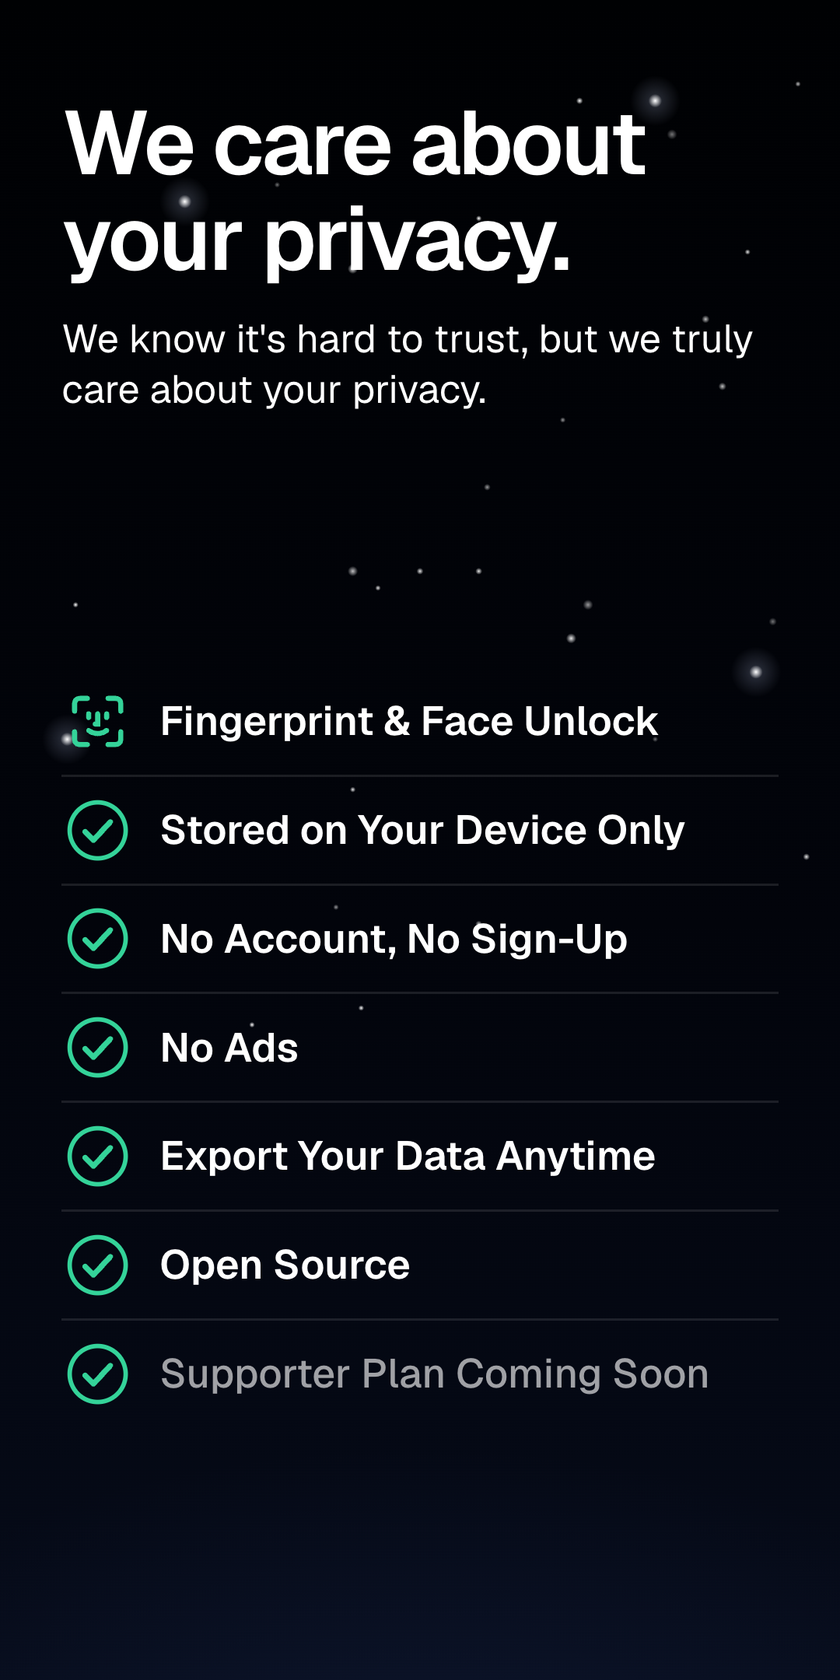
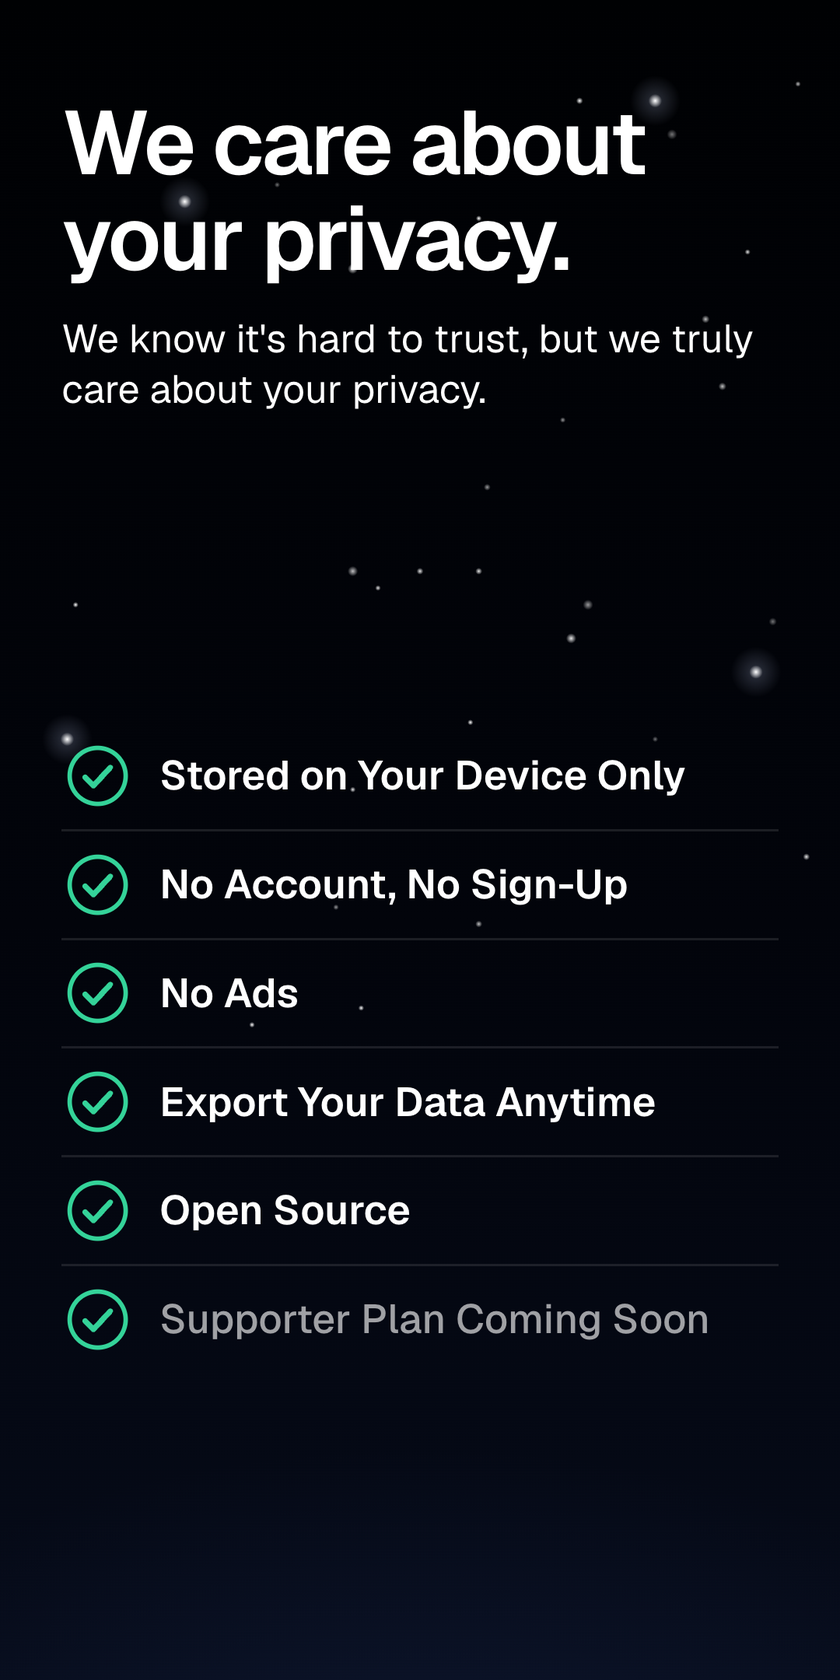
docs(store-screenshots): show only features in the store version
Drop Timeline, People and the Face ID row: these are behind flags and
not in store version 1.68.0. Add Year in Pixels and color themes
(PuOr light, BrBG dark), both in 1.68.0.

Changed region(s): [[0.1833, 0.4032, 0.8556, 0.8375], [0.0611, 0.4032, 0.1528, 0.8375]]

diff --git a/docs/store-screenshots/index.html b/docs/store-screenshots/index.html
@@ -156,19 +156,19 @@ radial-gradient(1.4px 1.4px at 18% 10%,#fff,transparent),radial-gradient(1px 1px
  <h4>Mood in<br>Pixels</h4><div class="sub">Your days turn into colors.</div>
  <div class="phA" style="top:186px;left:24%;transform:translateX(-50%) rotate(-5deg) scale(.85);transform-origin:50% 0;"><div class="bz"><div class="sc" data-app="mood" data-args=''></div></div></div>
  <div class="phA" style="top:150px;left:76%;transform:translateX(-50%) rotate(5deg) scale(.85);transform-origin:50% 0;z-index:2;"><div class="bz"><div class="sc" data-app="calendar" data-args=''></div></div></div></div><div class="lab"><b>2 · Mood.</b></div></div><div class="slot"><div class="scr ">
- <h4>Relive your<br>best days</h4><div class="sub">Every moment, photo and feeling.</div>
- <div class="phA" style="top:156px;transform:translateX(-50%) scale(var(--fit));transform-origin:50% 0;"><div class="bz"><div class="sc" data-app="timeline2" data-args=''></div></div></div></div><div class="lab"><b>3 · Timeline.</b></div></div><div class="slot"><div class="scr ">
  <h4>Name what<br>you feel.</h4><div class="sub">161 emotions, each explained.</div>
  <div class="phA" style="top:156px;transform:translateX(-50%) scale(var(--fit));transform-origin:50% 0;"><div class="bz"><div class="sc" data-app="emotions" data-args=''></div></div></div>
- <div class="zoom" style="left:22px;right:22px;top:500px"><span class="zc on" data-emo="calm"></span><span class="zc on" data-emo="hopeful"></span><span class="zc" data-emo="grateful"></span><span class="zc" data-emo="anxious"></span></div></div><div class="lab"><b>4 · Emotions.</b></div></div><div class="slot"><div class="scr ">
+ <div class="zoom" style="left:22px;right:22px;top:500px"><span class="zc on" data-emo="calm"></span><span class="zc on" data-emo="hopeful"></span><span class="zc" data-emo="grateful"></span><span class="zc" data-emo="anxious"></span></div></div><div class="lab"><b>3 · Emotions.</b></div></div><div class="slot"><div class="scr ">
  <h4>Tag what<br>matters</h4><div class="sub">Track what fills your days.</div>
  <div class="phA" style="top:156px;transform:translateX(-50%) scale(var(--fit));transform-origin:50% 0;"><div class="bz"><div class="sc" data-app="tags" data-args=''></div></div></div>
- <div class="zoom" style="left:22px;right:22px;top:500px"><span class="zc on"><i style="background:#22c55e"></i>Sport</span><span class="zc on"><i style="background:#f59e0b"></i>Hyperfocus</span><span class="zc on"><i style="background:#8b5cf6"></i>Took meds</span><span class="zc on"><i style="background:#3b82f6"></i>Meetings</span></div></div><div class="lab"><b>5 · Tags.</b></div></div><div class="slot"><div class="scr ">
- <h4>Who makes<br>your day?</h4><div class="sub">Add the people in your life.</div>
- <div class="phA" style="top:156px;transform:translateX(-50%) scale(var(--fit));transform-origin:50% 0;"><div class="bz"><div class="sc" data-app="people" data-args=''></div></div></div>
- <div class="zoom faces" style="left:22px;right:22px;top:430px"><span class="zf on"><img src="photos/p-ada.jpg" alt=""><b>Ada</b></span><span class="zf on"><img src="photos/p-jonas.jpg" alt=""><b>Jonas</b></span><span class="zf"><img src="photos/p-priya.jpg" alt=""><b>Priya</b></span></div></div><div class="lab"><b>6 · People.</b></div></div><div class="slot"><div class="scr dark">
+ <div class="zoom" style="left:22px;right:22px;top:500px"><span class="zc on"><i style="background:#22c55e"></i>Sport</span><span class="zc on"><i style="background:#f59e0b"></i>Hyperfocus</span><span class="zc on"><i style="background:#8b5cf6"></i>Took meds</span><span class="zc on"><i style="background:#3b82f6"></i>Meetings</span></div></div><div class="lab"><b>4 · Tags.</b></div></div><div class="slot"><div class="scr ">
+ <h4>Your year<br>in pixels</h4><div class="sub">See every day of the year at a glance.</div>
+ <div class="phA" style="top:156px;transform:translateX(-50%) scale(var(--fit));transform-origin:50% 0;"><div class="bz"><div class="sc" data-app="year" data-args=''></div></div></div></div><div class="lab"><b>5 · Year.</b></div></div><div class="slot"><div class="scr ">
+ <h4>Make it<br>your own</h4><div class="sub">Color scales in light and dark mode.</div>
+ <div class="phA" style="top:186px;left:24%;transform:translateX(-50%) rotate(-5deg) scale(.85);transform-origin:50% 0;"><div class="bz"><div class="sc" data-app="calendar" data-args='puor'></div></div></div>
+ <div class="phA" style="top:150px;left:76%;transform:translateX(-50%) rotate(5deg) scale(.85);transform-origin:50% 0;z-index:2;"><div class="bz"><div class="sc" data-app="calendar" data-args='brbg,dark'></div></div></div></div><div class="lab"><b>6 · Themes.</b></div></div><div class="slot"><div class="scr dark">
  <h4 style="align-self:flex-start;text-align:left">We care about<br>your privacy.</h4><div class="sub" style="align-self:flex-start;text-align:left;color:#fff">We know it's hard to trust, but we truly care about your privacy.</div>
- <div class="plist" style="margin-top:auto;margin-bottom:auto"><div><svg width="22" height="22" viewBox="0 0 24 24" fill="none" stroke="#34d399" stroke-width="2" stroke-linecap="round"><path d="M3 8V5a2 2 0 0 1 2-2h3M16 3h3a2 2 0 0 1 2 2v3M21 16v3a2 2 0 0 1-2 2h-3M8 21H5a2 2 0 0 1-2-2v-3"/><path d="M8.5 9v1.5M15.5 9v1.5M12 9v4h-1"/><path d="M8.5 15.5c1.8 1.6 5.2 1.6 7 0"/></svg>Face ID Lock</div><div><svg width="22" height="22" viewBox="0 0 22 22"><circle cx="11" cy="11" r="10" fill="none" stroke="#34d399" stroke-width="1.6"/><path d="M6.5 11.5l3 3L15.5 8" stroke="#34d399" stroke-width="2" fill="none" stroke-linecap="round" stroke-linejoin="round"/></svg>Stored on Your Device Only</div><div><svg width="22" height="22" viewBox="0 0 22 22"><circle cx="11" cy="11" r="10" fill="none" stroke="#34d399" stroke-width="1.6"/><path d="M6.5 11.5l3 3L15.5 8" stroke="#34d399" stroke-width="2" fill="none" stroke-linecap="round" stroke-linejoin="round"/></svg>No Account, No Sign-Up</div><div><svg width="22" height="22" viewBox="0 0 22 22"><circle cx="11" cy="11" r="10" fill="none" stroke="#34d399" stroke-width="1.6"/><path d="M6.5 11.5l3 3L15.5 8" stroke="#34d399" stroke-width="2" fill="none" stroke-linecap="round" stroke-linejoin="round"/></svg>No Ads</div><div><svg width="22" height="22" viewBox="0 0 22 22"><circle cx="11" cy="11" r="10" fill="none" stroke="#34d399" stroke-width="1.6"/><path d="M6.5 11.5l3 3L15.5 8" stroke="#34d399" stroke-width="2" fill="none" stroke-linecap="round" stroke-linejoin="round"/></svg>Export Your Data Anytime</div><div><svg width="22" height="22" viewBox="0 0 22 22"><circle cx="11" cy="11" r="10" fill="none" stroke="#34d399" stroke-width="1.6"/><path d="M6.5 11.5l3 3L15.5 8" stroke="#34d399" stroke-width="2" fill="none" stroke-linecap="round" stroke-linejoin="round"/></svg>Open Source</div><div class="soon"><svg width="22" height="22" viewBox="0 0 22 22"><circle cx="11" cy="11" r="10" fill="none" stroke="#34d399" stroke-width="1.6"/><path d="M6.5 11.5l3 3L15.5 8" stroke="#34d399" stroke-width="2" fill="none" stroke-linecap="round" stroke-linejoin="round"/></svg>Supporter Plan Coming Soon</div></div></div><div class="lab"><b>7 · Privacy.</b></div></div></div>
+ <div class="plist" style="margin-top:auto;margin-bottom:auto"><div><svg width="22" height="22" viewBox="0 0 22 22"><circle cx="11" cy="11" r="10" fill="none" stroke="#34d399" stroke-width="1.6"/><path d="M6.5 11.5l3 3L15.5 8" stroke="#34d399" stroke-width="2" fill="none" stroke-linecap="round" stroke-linejoin="round"/></svg>Stored on Your Device Only</div><div><svg width="22" height="22" viewBox="0 0 22 22"><circle cx="11" cy="11" r="10" fill="none" stroke="#34d399" stroke-width="1.6"/><path d="M6.5 11.5l3 3L15.5 8" stroke="#34d399" stroke-width="2" fill="none" stroke-linecap="round" stroke-linejoin="round"/></svg>No Account, No Sign-Up</div><div><svg width="22" height="22" viewBox="0 0 22 22"><circle cx="11" cy="11" r="10" fill="none" stroke="#34d399" stroke-width="1.6"/><path d="M6.5 11.5l3 3L15.5 8" stroke="#34d399" stroke-width="2" fill="none" stroke-linecap="round" stroke-linejoin="round"/></svg>No Ads</div><div><svg width="22" height="22" viewBox="0 0 22 22"><circle cx="11" cy="11" r="10" fill="none" stroke="#34d399" stroke-width="1.6"/><path d="M6.5 11.5l3 3L15.5 8" stroke="#34d399" stroke-width="2" fill="none" stroke-linecap="round" stroke-linejoin="round"/></svg>Export Your Data Anytime</div><div><svg width="22" height="22" viewBox="0 0 22 22"><circle cx="11" cy="11" r="10" fill="none" stroke="#34d399" stroke-width="1.6"/><path d="M6.5 11.5l3 3L15.5 8" stroke="#34d399" stroke-width="2" fill="none" stroke-linecap="round" stroke-linejoin="round"/></svg>Open Source</div><div class="soon"><svg width="22" height="22" viewBox="0 0 22 22"><circle cx="11" cy="11" r="10" fill="none" stroke="#34d399" stroke-width="1.6"/><path d="M6.5 11.5l3 3L15.5 8" stroke="#34d399" stroke-width="2" fill="none" stroke-linecap="round" stroke-linejoin="round"/></svg>Supporter Plan Coming Soon</div></div></div><div class="lab"><b>7 · Privacy.</b></div></div></div>
 <div class="platform"><h2>Android · Google Play</h2></div>
 <div class="set android-set"><div class="slot"><div class="scr proof">
  <div class="k" style="align-self:flex-start">mood journal</div>
@@ -181,20 +181,20 @@ radial-gradient(1.4px 1.4px at 18% 10%,#fff,transparent),radial-gradient(1px 1px
  <h4>Mood in<br>Pixels</h4><div class="sub">Your days turn into colors.</div>
  <div class="phA" style="top:186px;left:24%;transform:translateX(-50%) rotate(-5deg) scale(.85);transform-origin:50% 0;"><div class="bz"><div class="sc" data-app="mood" data-args=''></div></div></div>
  <div class="phA" style="top:150px;left:76%;transform:translateX(-50%) rotate(5deg) scale(.85);transform-origin:50% 0;z-index:2;"><div class="bz"><div class="sc" data-app="calendar" data-args=''></div></div></div></div><div class="lab"><b>2 · Mood.</b></div></div><div class="slot"><div class="scr ">
- <h4>Relive your<br>best days</h4><div class="sub">Every moment, photo and feeling.</div>
- <div class="phA" style="top:156px;transform:translateX(-50%) scale(var(--fit));transform-origin:50% 0;"><div class="bz"><div class="sc" data-app="timeline2" data-args=''></div></div></div></div><div class="lab"><b>3 · Timeline.</b></div></div><div class="slot"><div class="scr ">
  <h4>Name what<br>you feel.</h4><div class="sub">161 emotions, each explained.</div>
  <div class="phA" style="top:156px;transform:translateX(-50%) scale(var(--fit));transform-origin:50% 0;"><div class="bz"><div class="sc" data-app="emotions" data-args=''></div></div></div>
- <div class="zoom" style="left:22px;right:22px;top:500px"><span class="zc on" data-emo="calm"></span><span class="zc on" data-emo="hopeful"></span><span class="zc" data-emo="grateful"></span><span class="zc" data-emo="anxious"></span></div></div><div class="lab"><b>4 · Emotions.</b></div></div><div class="slot"><div class="scr ">
+ <div class="zoom" style="left:22px;right:22px;top:500px"><span class="zc on" data-emo="calm"></span><span class="zc on" data-emo="hopeful"></span><span class="zc" data-emo="grateful"></span><span class="zc" data-emo="anxious"></span></div></div><div class="lab"><b>3 · Emotions.</b></div></div><div class="slot"><div class="scr ">
  <h4>Tag what<br>matters</h4><div class="sub">Track what fills your days.</div>
  <div class="phA" style="top:156px;transform:translateX(-50%) scale(var(--fit));transform-origin:50% 0;"><div class="bz"><div class="sc" data-app="tags" data-args=''></div></div></div>
- <div class="zoom" style="left:22px;right:22px;top:500px"><span class="zc on"><i style="background:#22c55e"></i>Sport</span><span class="zc on"><i style="background:#f59e0b"></i>Hyperfocus</span><span class="zc on"><i style="background:#8b5cf6"></i>Took meds</span><span class="zc on"><i style="background:#3b82f6"></i>Meetings</span></div></div><div class="lab"><b>5 · Tags.</b></div></div><div class="slot"><div class="scr ">
- <h4>Who makes<br>your day?</h4><div class="sub">Add the people in your life.</div>
- <div class="phA" style="top:156px;transform:translateX(-50%) scale(var(--fit));transform-origin:50% 0;"><div class="bz"><div class="sc" data-app="people" data-args=''></div></div></div>
- <div class="zoom faces" style="left:22px;right:22px;top:430px"><span class="zf on"><img src="photos/p-ada.jpg" alt=""><b>Ada</b></span><span class="zf on"><img src="photos/p-jonas.jpg" alt=""><b>Jonas</b></span><span class="zf"><img src="photos/p-priya.jpg" alt=""><b>Priya</b></span></div></div><div class="lab"><b>6 · People.</b></div></div><div class="slot"><div class="scr dark">
+ <div class="zoom" style="left:22px;right:22px;top:500px"><span class="zc on"><i style="background:#22c55e"></i>Sport</span><span class="zc on"><i style="background:#f59e0b"></i>Hyperfocus</span><span class="zc on"><i style="background:#8b5cf6"></i>Took meds</span><span class="zc on"><i style="background:#3b82f6"></i>Meetings</span></div></div><div class="lab"><b>4 · Tags.</b></div></div><div class="slot"><div class="scr ">
+ <h4>Your year<br>in pixels</h4><div class="sub">See every day of the year at a glance.</div>
+ <div class="phA" style="top:156px;transform:translateX(-50%) scale(var(--fit));transform-origin:50% 0;"><div class="bz"><div class="sc" data-app="year" data-args=''></div></div></div></div><div class="lab"><b>5 · Year.</b></div></div><div class="slot"><div class="scr ">
+ <h4>Make it<br>your own</h4><div class="sub">Color scales in light and dark mode.</div>
+ <div class="phA" style="top:186px;left:24%;transform:translateX(-50%) rotate(-5deg) scale(.85);transform-origin:50% 0;"><div class="bz"><div class="sc" data-app="calendar" data-args='puor'></div></div></div>
+ <div class="phA" style="top:150px;left:76%;transform:translateX(-50%) rotate(5deg) scale(.85);transform-origin:50% 0;z-index:2;"><div class="bz"><div class="sc" data-app="calendar" data-args='brbg,dark'></div></div></div></div><div class="lab"><b>6 · Themes.</b></div></div><div class="slot"><div class="scr dark">
  <h4 style="align-self:flex-start;text-align:left">We care about<br>your privacy.</h4><div class="sub" style="align-self:flex-start;text-align:left;color:#fff">We know it's hard to trust, but we truly care about your privacy.</div>
- <div class="plist" style="margin-top:auto;margin-bottom:auto"><div><svg width="22" height="22" viewBox="0 0 24 24" fill="none" stroke="#34d399" stroke-width="2" stroke-linecap="round"><path d="M3 8V5a2 2 0 0 1 2-2h3M16 3h3a2 2 0 0 1 2 2v3M21 16v3a2 2 0 0 1-2 2h-3M8 21H5a2 2 0 0 1-2-2v-3"/><path d="M8.5 9v1.5M15.5 9v1.5M12 9v4h-1"/><path d="M8.5 15.5c1.8 1.6 5.2 1.6 7 0"/></svg>Fingerprint &amp; Face Unlock</div><div><svg width="22" height="22" viewBox="0 0 22 22"><circle cx="11" cy="11" r="10" fill="none" stroke="#34d399" stroke-width="1.6"/><path d="M6.5 11.5l3 3L15.5 8" stroke="#34d399" stroke-width="2" fill="none" stroke-linecap="round" stroke-linejoin="round"/></svg>Stored on Your Device Only</div><div><svg width="22" height="22" viewBox="0 0 22 22"><circle cx="11" cy="11" r="10" fill="none" stroke="#34d399" stroke-width="1.6"/><path d="M6.5 11.5l3 3L15.5 8" stroke="#34d399" stroke-width="2" fill="none" stroke-linecap="round" stroke-linejoin="round"/></svg>No Account, No Sign-Up</div><div><svg width="22" height="22" viewBox="0 0 22 22"><circle cx="11" cy="11" r="10" fill="none" stroke="#34d399" stroke-width="1.6"/><path d="M6.5 11.5l3 3L15.5 8" stroke="#34d399" stroke-width="2" fill="none" stroke-linecap="round" stroke-linejoin="round"/></svg>No Ads</div><div><svg width="22" height="22" viewBox="0 0 22 22"><circle cx="11" cy="11" r="10" fill="none" stroke="#34d399" stroke-width="1.6"/><path d="M6.5 11.5l3 3L15.5 8" stroke="#34d399" stroke-width="2" fill="none" stroke-linecap="round" stroke-linejoin="round"/></svg>Export Your Data Anytime</div><div><svg width="22" height="22" viewBox="0 0 22 22"><circle cx="11" cy="11" r="10" fill="none" stroke="#34d399" stroke-width="1.6"/><path d="M6.5 11.5l3 3L15.5 8" stroke="#34d399" stroke-width="2" fill="none" stroke-linecap="round" stroke-linejoin="round"/></svg>Open Source</div><div class="soon"><svg width="22" height="22" viewBox="0 0 22 22"><circle cx="11" cy="11" r="10" fill="none" stroke="#34d399" stroke-width="1.6"/><path d="M6.5 11.5l3 3L15.5 8" stroke="#34d399" stroke-width="2" fill="none" stroke-linecap="round" stroke-linejoin="round"/></svg>Supporter Plan Coming Soon</div></div></div><div class="lab"><b>7 · Privacy.</b></div></div></div></main>
-<script src="https://unpkg.com/lucide@0.460.0/dist/umd/lucide.min.js"></script><script src="emotion-icons.js?v=1792486816"></script><script src="appscreens.js?v=1792486816"></script><script>
+ <div class="plist" style="margin-top:auto;margin-bottom:auto"><div><svg width="22" height="22" viewBox="0 0 22 22"><circle cx="11" cy="11" r="10" fill="none" stroke="#34d399" stroke-width="1.6"/><path d="M6.5 11.5l3 3L15.5 8" stroke="#34d399" stroke-width="2" fill="none" stroke-linecap="round" stroke-linejoin="round"/></svg>Stored on Your Device Only</div><div><svg width="22" height="22" viewBox="0 0 22 22"><circle cx="11" cy="11" r="10" fill="none" stroke="#34d399" stroke-width="1.6"/><path d="M6.5 11.5l3 3L15.5 8" stroke="#34d399" stroke-width="2" fill="none" stroke-linecap="round" stroke-linejoin="round"/></svg>No Account, No Sign-Up</div><div><svg width="22" height="22" viewBox="0 0 22 22"><circle cx="11" cy="11" r="10" fill="none" stroke="#34d399" stroke-width="1.6"/><path d="M6.5 11.5l3 3L15.5 8" stroke="#34d399" stroke-width="2" fill="none" stroke-linecap="round" stroke-linejoin="round"/></svg>No Ads</div><div><svg width="22" height="22" viewBox="0 0 22 22"><circle cx="11" cy="11" r="10" fill="none" stroke="#34d399" stroke-width="1.6"/><path d="M6.5 11.5l3 3L15.5 8" stroke="#34d399" stroke-width="2" fill="none" stroke-linecap="round" stroke-linejoin="round"/></svg>Export Your Data Anytime</div><div><svg width="22" height="22" viewBox="0 0 22 22"><circle cx="11" cy="11" r="10" fill="none" stroke="#34d399" stroke-width="1.6"/><path d="M6.5 11.5l3 3L15.5 8" stroke="#34d399" stroke-width="2" fill="none" stroke-linecap="round" stroke-linejoin="round"/></svg>Open Source</div><div class="soon"><svg width="22" height="22" viewBox="0 0 22 22"><circle cx="11" cy="11" r="10" fill="none" stroke="#34d399" stroke-width="1.6"/><path d="M6.5 11.5l3 3L15.5 8" stroke="#34d399" stroke-width="2" fill="none" stroke-linecap="round" stroke-linejoin="round"/></svg>Supporter Plan Coming Soon</div></div></div><div class="lab"><b>7 · Privacy.</b></div></div></div></main>
+<script src="https://unpkg.com/lucide@0.460.0/dist/umd/lucide.min.js"></script><script src="emotion-icons.js?v=1792487340"></script><script src="appscreens.js?v=1792487340"></script><script>
 document.head.insertAdjacentHTML('beforeend','<style>'+APP.css+'</style>');
 document.querySelectorAll('[data-app]').forEach(el=>{window.PIXY_OS=el.closest('.android-set')?'android':'ios';const a=(el.dataset.args||'').split(',').filter(Boolean);el.innerHTML=APP.render(el.dataset.app,a[0]||undefined,a[1]==='dark')});window.PIXY_OS='ios';
 document.querySelectorAll('[data-card]').forEach(el=>el.innerHTML='<div class="ps">'+APP.card(el.dataset.card)+'</div>');

diff --git a/docs/store-screenshots/appscreens.js b/docs/store-screenshots/appscreens.js
@@ -66,7 +66,7 @@
         if (d > ML[m]) { h += '<span></span>'; continue; }
         const future = m > uptoMonth || (m === uptoMonth && d > upToDay);
         if (future) { h += '<span style="width:15px;height:15px;border-radius:50%;border:1.3px solid #d4d4d4"></span>'; continue; }
-        const x = r(); const c = x < 0.05 ? C.m1 : x < 0.22 ? C.m2 : x < 0.55 ? C.m3 : x < 0.8 ? C.m4 : x < 0.92 ? C.m5 : x < 0.97 ? C.m6 : C.m7;
+        const x = r(); const c = x < 0.05 ? C.m1 : x < 0.22 ? C.m2 : x < 0.55 ? C.m3 : x < 0.8 ? C.m4 : x < 0.92 ? C.m5 : C.m6;
         h += `<span style="width:15px;height:15px;border-radius:50%;background:${c}"></span>`;
       }
     }
@@ -126,6 +126,8 @@
   // ---- Round 8 screens (spec: app-screens.md) ----
   const SCALES = {
     default: [C.m1, C.m2, C.m3, C.m4, C.m5, C.m6, C.m7],
+    puor: ['#542788', '#998ec3', '#d8daeb', '#e5e5e5', '#fee0b6', '#f1a340', '#b35806'],
+    brbg: ['#01665e', '#5ab4ac', '#c7eae5', '#e5e5e5', '#f6e8c3', '#d8b365', '#8c510a'],
   };
   const pickMood = (x, sc) => x < 0.08 ? sc[0] : x < 0.34 ? sc[1] : x < 0.58 ? sc[2] : x < 0.76 ? sc[3] : x < 0.88 ? sc[4] : sc[5];
   S.mood = () => `<div style="position:absolute;inset:0;background:#d9d9db"></div><div style="position:relative">${statusbar()}</div>

diff --git a/docs/store-screenshots/build.py b/docs/store-screenshots/build.py
@@ -233,24 +233,24 @@ SLOTS = [
  <h4>Mood in<br>Pixels</h4><div class="sub">Your days turn into colors.</div>
  {phone('mood', 186, 'left:24%;transform:translateX(-50%) rotate(-5deg) scale(.85);transform-origin:50% 0;')}
  {phone('calendar', 150, 'left:76%;transform:translateX(-50%) rotate(5deg) scale(.85);transform-origin:50% 0;z-index:2;')}"""),
-    ("<b>3 · Timeline.</b> Day 2 Oma hug + letter, day 1 Munich + puppy; day 2 popped out.", ("flag", "flag: calendar-timeline"), "", f"""
- <h4>Relive your<br>best days</h4><div class="sub">Every moment, photo and feeling.</div>
- {phone('timeline2', 156, 'transform:translateX(-50%) scale(var(--fit));transform-origin:50% 0;')}"""),
-    ("<b>4 · Emotions.</b> Logger emotions slide, Calm, Hopeful, Grateful, Anxious popped out.", None, "", f"""
+    ("<b>3 · Emotions.</b> Logger emotions slide, Calm, Hopeful, Grateful, Anxious popped out.", None, "", f"""
  <h4>Name what<br>you feel.</h4><div class="sub">161 emotions, each explained.</div>
  {phone('emotions', 156, 'transform:translateX(-50%) scale(var(--fit));transform-origin:50% 0;')}
  <div class="zoom" style="left:22px;right:22px;top:500px"><span class="zc on" data-emo="calm"></span><span class="zc on" data-emo="hopeful"></span><span class="zc" data-emo="grateful"></span><span class="zc" data-emo="anxious"></span></div>"""),
-    ("<b>5 · Tags.</b> Check-in tags, flat list (no categories), gray bg; popular tags popped out in gray cards.", None, "", f"""
+    ("<b>4 · Tags.</b> Check-in tags, flat list (no categories), gray bg; popular tags popped out in gray cards.", None, "", f"""
  <h4>Tag what<br>matters</h4><div class="sub">Track what fills your days.</div>
  {phone('tags', 156, 'transform:translateX(-50%) scale(var(--fit));transform-origin:50% 0;')}
  <div class="zoom" style="left:22px;right:22px;top:500px"><span class="zc on"><i style="background:#22c55e"></i>Sport</span><span class="zc on"><i style="background:#f59e0b"></i>Hyperfocus</span><span class="zc on"><i style="background:#8b5cf6"></i>Took meds</span><span class="zc on"><i style="background:#3b82f6"></i>Meetings</span></div>"""),
-    ("<b>6 · People.</b> Check-in people step (3-column avatars + add tile); Add Person card popped out.", ("flag", "flag: people"), "", f"""
- <h4>Who makes<br>your day?</h4><div class="sub">Add the people in your life.</div>
- {phone('people', 156, 'transform:translateX(-50%) scale(var(--fit));transform-origin:50% 0;')}
- <div class="zoom faces" style="left:22px;right:22px;top:430px"><span class="zf on"><img src="photos/p-ada.jpg" alt=""><b>Ada</b></span><span class="zf on"><img src="photos/p-jonas.jpg" alt=""><b>Jonas</b></span><span class="zf"><img src="photos/p-priya.jpg" alt=""><b>Priya</b></span></div>"""),
+    ("<b>5 · Year.</b> Year Report: Year in Pixels.", None, "", f"""
+ <h4>Your year<br>in pixels</h4><div class="sub">See every day of the year at a glance.</div>
+ {phone('year', 156, 'transform:translateX(-50%) scale(var(--fit));transform-origin:50% 0;')}"""),
+    ("<b>6 · Themes.</b> Calendar in PuOr (light) and BrBG (dark).", None, "", f"""
+ <h4>Make it<br>your own</h4><div class="sub">Color scales in light and dark mode.</div>
+ {phone('calendar', 186, 'left:24%;transform:translateX(-50%) rotate(-5deg) scale(.85);transform-origin:50% 0;', 'puor')}
+ {phone('calendar', 150, 'left:76%;transform:translateX(-50%) rotate(5deg) scale(.85);transform-origin:50% 0;z-index:2;', 'brbg,dark')}"""),
     ("<b>7 · Privacy.</b> Black, no lock icon, list mid-screen, on-device box at the bottom.", ("flag", "Face ID: flag app-lock"), "dark", f"""
  <h4 style="align-self:flex-start;text-align:left">We care about<br>your privacy.</h4><div class="sub" style="align-self:flex-start;text-align:left;color:#fff">We know it's hard to trust, but we truly care about your privacy.</div>
- <div class="plist" style="margin-top:auto;margin-bottom:auto"><div>{FACEID}Face ID Lock</div><div>{CK}Stored on Your Device Only</div><div>{CK}No Account, No Sign-Up</div><div>{CK}No Ads</div><div>{CK}Export Your Data Anytime</div><div>{CK}Open Source</div><div class="soon">{CK}Supporter Plan Coming Soon</div></div>"""),
+ <div class="plist" style="margin-top:auto;margin-bottom:auto"><div>{CK}Stored on Your Device Only</div><div>{CK}No Account, No Sign-Up</div><div>{CK}No Ads</div><div>{CK}Export Your Data Anytime</div><div>{CK}Open Source</div><div class="soon">{CK}Supporter Plan Coming Soon</div></div>"""),
 ]
 
 body = "".join(
